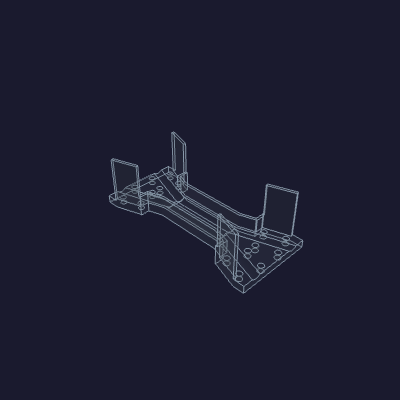
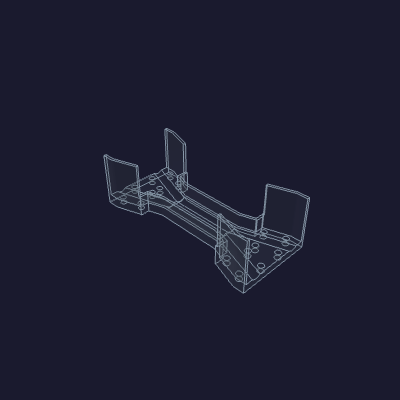
source-select tray: add back walls continuing the tall walls to the rear corners
When the straight full-length side walls became per-valve slanted tall walls,
the flat rear stretch of each valve end (past the tall wall's back-outer corner
to the back corner) lost its wall. Add a back wall along each — running in X on
the floor's rear edge, full height — so the perimeter is unbroken from the
central short walls around each valve to the back. One solid, 0 mm³ clashes.

diff --git a/hardware/printed-parts/valve-manifold/source-select-tray/source_select_tray.py b/hardware/printed-parts/valve-manifold/source-select-tray/source_select_tray.py
@@ -305,6 +305,20 @@ def build_source_select_tray():
             bot_z, wall_top_z,
         ))
 
+    # Back walls: continue each tall wall along the flat rear of the floor out to
+    # the back corner — the stretch the slanted tall wall no longer covers.
+    for vx, vy, dx, dy in valves:
+        a, nout = _valve_axes(vx, vy, dx, dy)
+        bo = _wall_corner(vx, vy, a, nout, tall_inner + wall_thickness, -body_width / 2)  # tall back-outer
+        sx, sy = math.copysign(1.0, vx), math.copysign(1.0, vy)
+        x0, x1 = sorted((bo[0], sx * valve_back_x))
+        y0, y1 = sorted((bo[1], bo[1] - sy * wall_thickness))
+        tray = tray.union(
+            cq.Workplane("XY")
+            .box(x1 - x0, y1 - y0, wall_top_z - bot_z, centered=(False, False, False))
+            .translate((x0, y0, bot_z))
+        )
+
     # Short central walls: the hug/bump strip per side, just clearing the dividers.
     for sy in (-1.0, 1.0):
         inner, outer = side_profiles[sy]

diff --git a/hardware/printed-parts/valve-manifold/source-select-tray/README.md b/hardware/printed-parts/valve-manifold/source-select-tray/README.md
@@ -41,7 +41,8 @@ floor (the stem axis at Y = 0 and the two outlets at Y = ±[7.35](OUTLET_Y)).
 The valve-end **side walls** (±Y) rise to Z = [60](WALL_TOP_Z), clear of the [56.6](COIL_TOP) mm
 valve-coil tops; a second tray's floor lands on the wall tops at a **[63](STACK_PITCH) mm
 stack pitch**. Each runs **parallel to its valve's outer top-box edge**, hugging
-the body one clearance outboard. The short central walls rise only high enough to
+the body one clearance outboard, then continues straight along the flat rear of
+the floor to the back corner. The short central walls rise only high enough to
 clear the dividers, and **bump outward** where a valve's inner port pokes past
 the hug line. A short **connecting wall** at each end bridges the bump across to
 the front edge of the adjacent tall wall, so the perimeter runs unbroken. The
